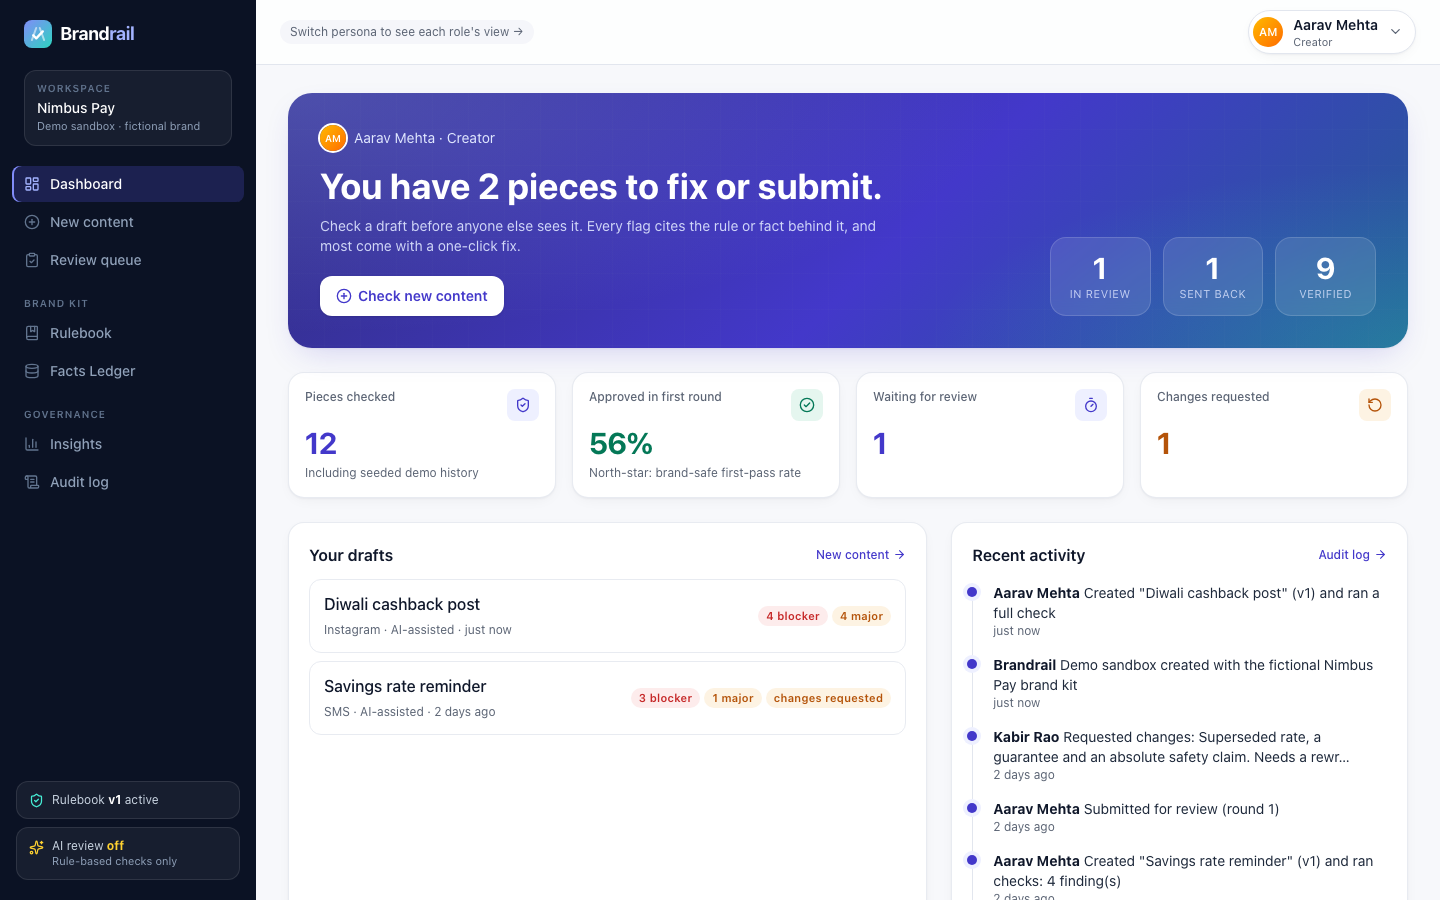
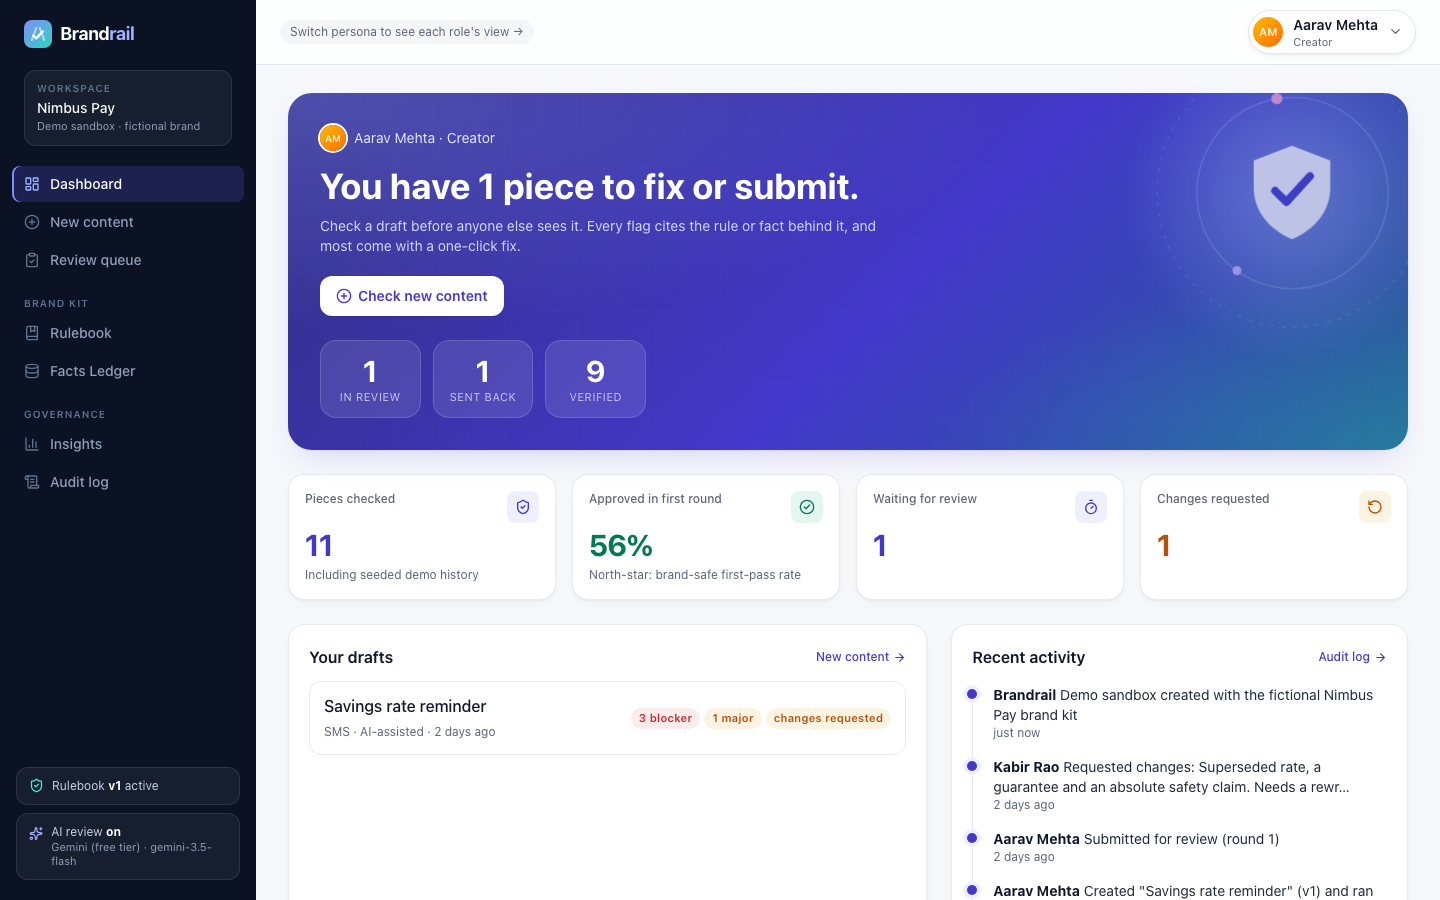
Add live demo link, AI evaluation results and fresh screenshots
- README: live URL, side-by-side rule-based vs AI evaluation, quota caveat
- eval: --ids subset and --out options; record which model answered
- docs: AI evaluation reports and screenshots from the live deployment

diff --git a/eval/run.ts b/eval/run.ts
@@ -10,6 +10,11 @@ import type { DraftFinding, EngineContent } from "../src/lib/engine/types";
 import { GOLDEN } from "./golden";
 
 const withAi = process.argv.includes("--ai");
+// Optional: --ids=g29,g30 runs a subset (e.g. to re-run samples whose AI call hit a quota).
+const idsArg = process.argv.find((a) => a.startsWith("--ids="));
+const onlyIds = idsArg ? new Set(idsArg.slice(6).split(",")) : null;
+const SET = onlyIds ? GOLDEN.filter((g) => onlyIds.has(g.id)) : GOLDEN;
+const OUT = process.argv.find((a) => a.startsWith("--out="))?.slice(6) ?? "docs/eval-report.md";
 // Fixed date so results are reproducible (F-041 in date, F-037/F-031 expired).
 const kit = { ...seedKit("2026-11-07"), version: 1 };
 const category = new Map(kit.rules.map((r) => [r.code, r.category]));
@@ -30,7 +35,7 @@ async function predict(item: (typeof GOLDEN)[number]): Promise<Row> {
     if (res.status === "ok") {
       const v = verifyAiFindings(kit, content, det, res.findings, res.unmask);
       all = [...det, ...v.kept];
-      aiStats = `${res.findings.length} proposed, ${v.kept.length} kept, ${v.dropped.length} dropped`;
+      aiStats = `${res.model}: ${res.findings.length} proposed, ${v.kept.length} kept, ${v.dropped.length} dropped`;
     } else aiStats = `AI ${res.status}: ${res.message}`;
   }
   const citationsValid = all.every((f) => category.has(f.ruleCode) && (f.field !== "body" || content.body.slice(f.start, f.end) === f.quote));
@@ -56,7 +61,12 @@ const pct = (x: number) => `${(x * 100).toFixed(0)}%`;
 
 async function main() {
   const rows: Row[] = [];
-  for (const item of GOLDEN) rows.push(await predict(item));
+  for (const [i, item] of SET.entries()) {
+    rows.push(await predict(item));
+    // Stay under free-tier rate limits when calling the AI provider.
+    if (withAi && i < SET.length - 1) await new Promise((r) => setTimeout(r, 7000));
+    if (withAi) process.stderr.write(`\r${i + 1}/${SET.length}`);
+  }
   const overall = score(rows);
   const blockers = new Set(kit.rules.filter((r) => r.severity === "blocker").map((r) => r.code));
   const blockerScore = score(rows, (c) => blockers.has(c));
@@ -67,8 +77,8 @@ async function main() {
   const lines = [
     `# Brandrail evaluation report`,
     ``,
-    `- Mode: **${withAi ? "rule-based + AI review + verifier" : "rule-based checks only"}**`,
-    `- Golden set: **${GOLDEN.length} labelled samples**, of which ${clean.length} are clean controls (fictional Nimbus Pay brand, eval/golden.ts)`,
+    `- Mode: **${withAi ? `rule-based + AI review (${process.env.ANTHROPIC_API_KEY ? "Claude" : "Gemini"}) + verifier` : "rule-based checks only"}**`,
+    `- Golden set: **${SET.length} labelled samples**${onlyIds ? ` (subset: ${[...onlyIds].join(", ")})` : ""}, of which ${clean.length} are clean controls (fictional Nimbus Pay brand, eval/golden.ts)`,
     `- Rulebook: v1 (${kit.rules.length} rules) · Facts as of ${kit.today}`,
     `- Generated: ${new Date().toISOString()}`,
     ``,
@@ -101,7 +111,7 @@ async function main() {
     ``,
     withAi ? `` : `Rule-based checks cannot judge tone, messaging or audience fit (TON-01, TON-02, MSG-01, MSG-03) or implied claims. Those labels are expected to be missed in this mode and are covered by the AI review.`,
   ];
-  writeFileSync("docs/eval-report.md", lines.join("\n") + "\n");
+  writeFileSync(OUT, lines.join("\n") + "\n");
   console.log(lines.slice(0, 18).join("\n"));
 }
 

diff --git a/README.md b/README.md
@@ -4,6 +4,8 @@
 
 Built for the **Inkloom AI brand-governance problem statement** (We Code Coders hackathon) by team **Caffiene Addict**.
 
+**Live demo: https://brandrail-dusky.vercel.app** (no sign-up; each visitor gets a private sandbox)
+
 ![Content review with cited findings](docs/screenshots/review.png)
 
 ## Try it in 3 minutes
@@ -69,17 +71,21 @@ A brand checker fails if it invents rules, misquotes text or over-flags, because
 
 ## Evaluation
 
-`npm run eval` scores the engine against a labelled golden set (`eval/golden.ts`: 44 samples, 12 of them clean controls). `npm run eval -- --ai` adds the Claude review and the verifier. Latest rule-based-only result ([docs/eval-report.md](docs/eval-report.md)):
+`npm run eval` scores the engine against a labelled golden set (`eval/golden.ts`: 44 samples, 12 of them clean controls). `npm run eval -- --ai` adds the AI review and the verifier.
 
-| Metric | Rule-based only |
-|---|---|
-| Precision | 100% (52 TP / 0 FP) |
-| Recall | 90% (all 6 misses are tone/messaging/implied-claim labels that need the AI review) |
-| Blocker precision / recall | 100% / 97% |
-| False flags on clean controls | 0 |
-| Citation validity | 100% |
+| Metric | Rule-based only | Rule-based + AI review + verifier |
+|---|---|---|
+| Precision | 100% (52 TP / 0 FP) | 100% (58 TP / 0 FP) |
+| Recall | 90% (6 missed) | 100% (0 missed) |
+| Blocker precision / recall | 100% / 97% | 100% / 100% |
+| False flags on 12 clean controls | 0 | 0 |
+| Citation validity | 100% | 100% |
 
-These numbers are optimistic: the golden set was written alongside the rules. Round 3 adds independently written samples and real user content.
+Reports: [rule-based](docs/eval-report.md) · [AI run](docs/eval-report-ai.md) · [AI re-run](docs/eval-report-ai-rerun.md). The six issues rule-based checks miss are tone, messaging, audience-fit and implied-claim problems. That is the job of the AI review.
+
+**Caveats:**
+- In the full AI run (Gemini free tier), 5 of the 44 AI calls hit the free daily quota. Those 5 samples were re-run separately and all were caught; the AI column combines both runs.
+- The golden set was written alongside the rules, so these numbers are optimistic. Round 3 adds independently written samples and real user content.
 
 ## Models, APIs, libraries and services
 
@@ -95,7 +101,7 @@ These numbers are optimistic: the golden set was written alongside the rules. Ro
 
 **Data:** all demo data (the Nimbus Pay brand book, facts, sample content, sample creative and guidelines PDF) is fictional and was created for this project. No real company's material is used.
 
-**Screenshots:** [landing](docs/screenshots/landing.png) · [dashboard](docs/screenshots/dashboard.png) · [review](docs/screenshots/review.png) · [verified](docs/screenshots/verified.png) · [insights](docs/screenshots/insights.png)
+**Screenshots:** [landing](docs/screenshots/landing.png) · [dashboard](docs/screenshots/dashboard.png) · [review](docs/screenshots/review.png) · [verified](docs/screenshots/verified.png) · [insights](docs/screenshots/insights.png) · [rulebook](docs/screenshots/rulebook.png)
 
 **Templates and AI assistance (disclosure):** the project was started from `create-next-app` (boilerplate). It is a solo build, and the implementation was written with heavy use of **Claude Code** (Anthropic's AI coding assistant) under the author's direction. Commits made with it carry a `Co-Authored-By: Claude` trailer.
 
@@ -113,6 +119,7 @@ These numbers are optimistic: the golden set was written alongside the rules. Ro
 - Logo misuse (VIS-02) is not checked automatically yet: it is listed in the rulebook and left to the reviewer.
 - OCR quality varies on stylised fonts; creators can correct the OCR text before checking.
 - Personas are a demo convenience, not real authentication.
+- The free Gemini tier has small daily quotas (20 requests a day on `gemini-3.5-flash`). Brandrail falls back to `gemini-3.5-flash-lite` and then `gemini-3.1-flash-lite`. If every quota is used up, the AI step is skipped with a clear message and the rule-based checks still run.
 - English only. The golden set is still small (44 samples).
 
 ## Run locally

diff --git a/docs/eval-report-ai.md b/docs/eval-report-ai.md
@@ -1,0 +1,38 @@
+# Brandrail evaluation report
+
+- Mode: **rule-based + AI review (Gemini) + verifier**
+- Golden set: **44 labelled samples**, of which 12 are clean controls (fictional Nimbus Pay brand, eval/golden.ts)
+- Rulebook: v1 (29 rules) · Facts as of 2026-11-07
+- Generated: 2026-11-07T14:15:11.091Z
+
+| Metric | Value |
+|---|---|
+| Precision (all findings) | 100% (53 TP / 0 FP) |
+| Recall (all labelled issues) | 91% (5 missed) |
+| Precision, blocker rules | 100% |
+| Recall, blocker rules | 100% |
+| False flags on clean controls | 0 across 12 samples (0.00 per sample) |
+| Citation validity (rule exists, quote matches text) | 100% |
+
+## By category
+
+| Category | Precision | Recall | TP | FP | FN |
+|---|---|---|---|---|---|
+| tone | 100% | 67% | 6 | 0 | 3 |
+| terminology | 100% | 100% | 7 | 0 | 0 |
+| messaging | 100% | 33% | 1 | 0 | 2 |
+| claims | 100% | 100% | 20 | 0 | 0 |
+| legal | 100% | 100% | 11 | 0 | 0 |
+| confidentiality | 100% | 100% | 5 | 0 | 0 |
+| accessibility | 100% | 100% | 3 | 0 | 0 |
+| visual | – | – | 0 | 0 | 0 |
+
+## Misses and false positives
+
+- **g29**: missed TON-01 (AI error: Gemini free-tier rate limit reached. Wait a minute and run the check again.)
+- **g30**: missed TON-02 (AI error: Gemini free-tier rate limit reached. Wait a minute and run the check again.)
+- **g31**: missed MSG-01 (AI error: Gemini free-tier rate limit reached. Wait a minute and run the check again.)
+- **g32**: missed MSG-03 (AI error: Gemini free-tier rate limit reached. Wait a minute and run the check again.)
+- **g36**: missed TON-02 (AI error: Gemini free-tier rate limit reached. Wait a minute and run the check again.)
+
+

diff --git a/docs/eval-report-rules-only.md b/docs/eval-report-rules-only.md
@@ -1,0 +1,39 @@
+# Brandrail evaluation report
+
+- Mode: **rule-based checks only**
+- Golden set: **44 labelled samples**, of which 12 are clean controls (fictional Nimbus Pay brand, eval/golden.ts)
+- Rulebook: v1 (29 rules) · Facts as of 2026-11-07
+- Generated: 2026-11-07T13:36:01.601Z
+
+| Metric | Value |
+|---|---|
+| Precision (all findings) | 100% (52 TP / 0 FP) |
+| Recall (all labelled issues) | 90% (6 missed) |
+| Precision, blocker rules | 100% |
+| Recall, blocker rules | 97% |
+| False flags on clean controls | 0 across 12 samples (0.00 per sample) |
+| Citation validity (rule exists, quote matches text) | 100% |
+
+## By category
+
+| Category | Precision | Recall | TP | FP | FN |
+|---|---|---|---|---|---|
+| tone | 100% | 67% | 6 | 0 | 3 |
+| terminology | 100% | 100% | 7 | 0 | 0 |
+| messaging | 100% | 33% | 1 | 0 | 2 |
+| claims | 100% | 95% | 19 | 0 | 1 |
+| legal | 100% | 100% | 11 | 0 | 0 |
+| confidentiality | 100% | 100% | 5 | 0 | 0 |
+| accessibility | 100% | 100% | 3 | 0 | 0 |
+| visual | – | – | 0 | 0 | 0 |
+
+## Misses and false positives
+
+- **g03**: missed CLM-03
+- **g29**: missed TON-01
+- **g30**: missed TON-02
+- **g31**: missed MSG-01
+- **g32**: missed MSG-03
+- **g36**: missed TON-02
+
+Rule-based checks cannot judge tone, messaging or audience fit (TON-01, TON-02, MSG-01, MSG-03) or implied claims. Those labels are expected to be missed in this mode and are covered by the AI review.

diff --git a/docs/eval-report-ai-rerun.md b/docs/eval-report-ai-rerun.md
@@ -1,0 +1,33 @@
+# Brandrail evaluation report
+
+- Mode: **rule-based + AI review (Gemini) + verifier**
+- Golden set: **5 labelled samples** (subset: g29, g30, g31, g32, g36), of which 0 are clean controls (fictional Nimbus Pay brand, eval/golden.ts)
+- Rulebook: v1 (29 rules) · Facts as of 2026-11-07
+- Generated: 2026-11-07T14:38:01.612Z
+
+| Metric | Value |
+|---|---|
+| Precision (all findings) | 100% (7 TP / 0 FP) |
+| Recall (all labelled issues) | 100% (0 missed) |
+| Precision, blocker rules | 100% |
+| Recall, blocker rules | 100% |
+| False flags on clean controls | 0 across 0 samples (0.00 per sample) |
+| Citation validity (rule exists, quote matches text) | 100% |
+
+## By category
+
+| Category | Precision | Recall | TP | FP | FN |
+|---|---|---|---|---|---|
+| tone | 100% | 100% | 3 | 0 | 0 |
+| terminology | – | – | 0 | 0 | 0 |
+| messaging | 100% | 100% | 2 | 0 | 0 |
+| claims | – | – | 0 | 0 | 0 |
+| legal | 100% | 100% | 1 | 0 | 0 |
+| confidentiality | – | – | 0 | 0 | 0 |
+| accessibility | 100% | 100% | 1 | 0 | 0 |
+| visual | – | – | 0 | 0 | 0 |
+
+## Misses and false positives
+
+
+
